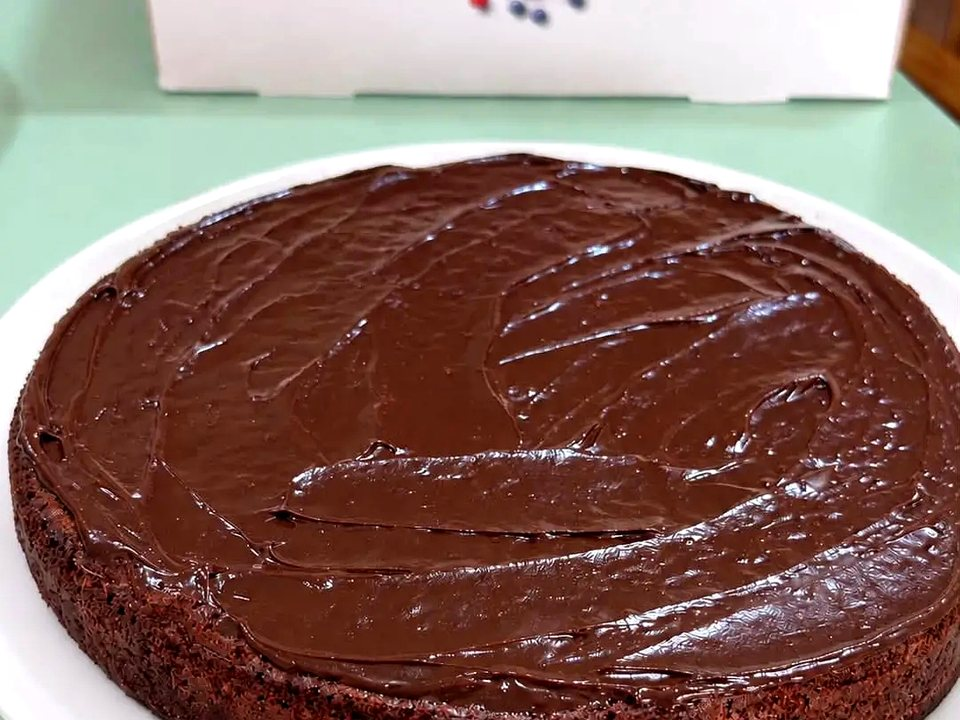
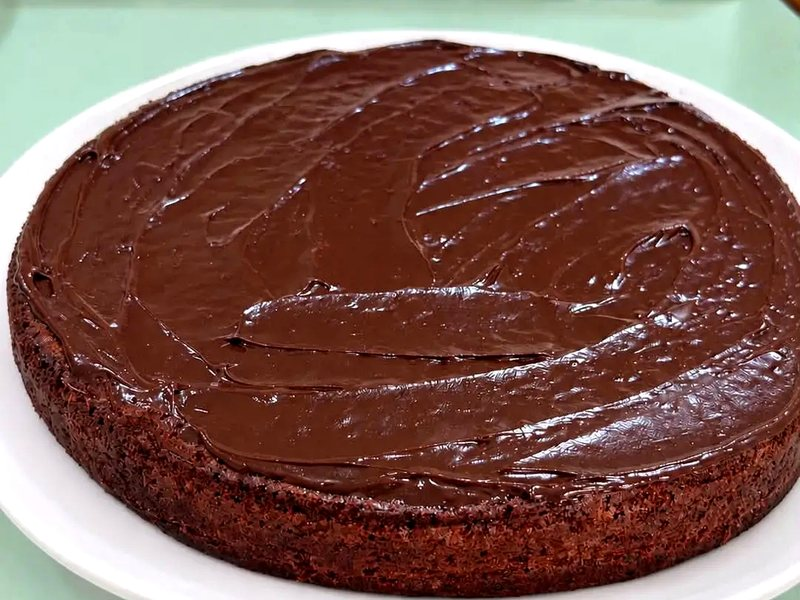
Vraies photos des tiramisus, ajout Kinder, Passion, gâteau au chocolat
Claude-Session: https://claude.ai/code/session_01JonkbffiPfwRM177G1wJXV

diff --git a/index.html b/index.html
@@ -120,175 +120,154 @@
 
       <article class="carte apparition">
         <div class="carte-image"><img src="images/cafe.jpg" alt="Tiramisu café" onerror="this.onerror=null; this.src='images/illus/classique.svg'"></div>
-        <div class="carte-texte">
-          <h3>Café</h3>
-          <p>Biscuits imbibés de café, crème mascarpone et cacao. Un dessert onctueux pour les amateurs de café.</p>
-          <div class="carte-bas">
-            <span class="prix">1 000 FCFA</span>
-            <div class="compteur" data-parfum="Café">
-              <button type="button" class="moins" aria-label="Retirer un pot Café">−</button>
-              <span class="nombre">0</span>
-              <button type="button" class="plus" aria-label="Ajouter un pot Café">+</button>
-            </div>
+        <h3>Café</h3>
+        <p>Un dessert onctueux et parfumé pour les amateurs de café.</p>
+        <div class="carte-bas">
+          <span class="prix">1 000 FCFA</span>
+          <div class="compteur" data-parfum="Café">
+            <button type="button" class="moins" aria-label="Retirer un pot Café">−</button>
+            <span class="nombre">0</span>
+            <button type="button" class="plus" aria-label="Ajouter un pot Café">+</button>
           </div>
         </div>
       </article>
 
       <article class="carte apparition">
         <div class="carte-image"><img src="images/oreo.jpg" alt="Tiramisu oreo" onerror="this.onerror=null; this.src='images/illus/oreo.svg'"></div>
-        <div class="carte-texte">
-          <h3>Oreo</h3>
-          <p>Crème mascarpone et biscuits Oreo, gourmand et croquant.</p>
-          <div class="carte-bas">
-            <span class="prix">1 000 FCFA</span>
-            <div class="compteur" data-parfum="Oreo">
-              <button type="button" class="moins" aria-label="Retirer un pot Oreo">−</button>
-              <span class="nombre">0</span>
-              <button type="button" class="plus" aria-label="Ajouter un pot Oreo">+</button>
-            </div>
-          </div>
-        </div>
-      </article>
-
-      <article class="carte apparition">
-        <div class="carte-image"><img src="images/kinder.jpg" alt="Tiramisu kinder" onerror="this.onerror=null; this.src='images/illus/classique.svg'"></div>
-        <div class="carte-texte">
-          <h3>Kinder</h3>
-          <p>Crème mascarpone et éclats de chocolat Kinder.</p>
-          <div class="carte-bas">
-            <span class="prix">1 000 FCFA</span>
-            <div class="compteur" data-parfum="Kinder">
-              <button type="button" class="moins" aria-label="Retirer un pot Kinder">−</button>
-              <span class="nombre">0</span>
-              <button type="button" class="plus" aria-label="Ajouter un pot Kinder">+</button>
-            </div>
+        <h3>Oreo</h3>
+        <p>Un dessert gourmand et croquant qui ravira les fans d'Oreo.</p>
+        <div class="carte-bas">
+          <span class="prix">1 000 FCFA</span>
+          <div class="compteur" data-parfum="Oreo">
+            <button type="button" class="moins" aria-label="Retirer un pot Oreo">−</button>
+            <span class="nombre">0</span>
+            <button type="button" class="plus" aria-label="Ajouter un pot Oreo">+</button>
           </div>
         </div>
       </article>
 
       <article class="carte apparition">
         <div class="carte-image"><img src="images/speculoos.jpg" alt="Tiramisu spéculoos pralin" onerror="this.onerror=null; this.src='images/illus/speculoos.svg'"></div>
-        <div class="carte-texte">
-          <h3>Spéculoos pralin</h3>
-          <p>Spéculoos et éclats de pralin croquants sur une crème mascarpone.</p>
-          <div class="carte-bas">
-            <span class="prix">1 000 FCFA</span>
-            <div class="compteur" data-parfum="Spéculoos pralin">
-              <button type="button" class="moins" aria-label="Retirer un pot Spéculoos pralin">−</button>
-              <span class="nombre">0</span>
-              <button type="button" class="plus" aria-label="Ajouter un pot Spéculoos pralin">+</button>
-            </div>
+        <h3>Spéculoos pralin</h3>
+        <p>Spéculoos et éclats de pralin croquants sur une crème mascarpone.</p>
+        <div class="carte-bas">
+          <span class="prix">1 000 FCFA</span>
+          <div class="compteur" data-parfum="Spéculoos pralin">
+            <button type="button" class="moins" aria-label="Retirer un pot Spéculoos pralin">−</button>
+            <span class="nombre">0</span>
+            <button type="button" class="plus" aria-label="Ajouter un pot Spéculoos pralin">+</button>
+          </div>
+        </div>
+      </article>
+
+      <article class="carte apparition">
+        <div class="carte-image"><img src="images/kinder.jpg" alt="Tiramisu kinder" onerror="this.onerror=null; this.src='images/illus/kinder.svg'"></div>
+        <h3>Kinder</h3>
+        <p>Crème mascarpone et morceaux de chocolat Kinder.</p>
+        <div class="carte-bas">
+          <span class="prix">1 000 FCFA</span>
+          <div class="compteur" data-parfum="Kinder">
+            <button type="button" class="moins" aria-label="Retirer un pot Kinder">−</button>
+            <span class="nombre">0</span>
+            <button type="button" class="plus" aria-label="Ajouter un pot Kinder">+</button>
           </div>
         </div>
       </article>
 
       <article class="carte apparition">
         <div class="carte-image"><img src="images/passion.jpg" alt="Tiramisu passion" onerror="this.onerror=null; this.src='images/illus/passion.svg'"></div>
-        <div class="carte-texte">
-          <h3>Passion</h3>
-          <p>Crème mascarpone et coulis de fruit de la passion, avec ses petites graines.</p>
-          <div class="carte-bas">
-            <span class="prix">1 000 FCFA</span>
-            <div class="compteur" data-parfum="Passion">
-              <button type="button" class="moins" aria-label="Retirer un pot Passion">−</button>
-              <span class="nombre">0</span>
-              <button type="button" class="plus" aria-label="Ajouter un pot Passion">+</button>
-            </div>
+        <h3>Passion</h3>
+        <p>Crème mascarpone et coulis de fruit de la passion, avec ses graines.</p>
+        <div class="carte-bas">
+          <span class="prix">1 000 FCFA</span>
+          <div class="compteur" data-parfum="Passion">
+            <button type="button" class="moins" aria-label="Retirer un pot Passion">−</button>
+            <span class="nombre">0</span>
+            <button type="button" class="plus" aria-label="Ajouter un pot Passion">+</button>
           </div>
         </div>
       </article>
 
       <article class="carte apparition">
         <div class="carte-image"><img src="images/mangue-passion.jpg" alt="Tiramisu mangue-passion" onerror="this.onerror=null; this.src='images/illus/passion.svg'"></div>
-        <div class="carte-texte">
-          <h3>Mangue-passion</h3>
-          <p>Crème mascarpone et coulis mangue-passion.</p>
-          <div class="carte-bas">
-            <span class="prix">1 000 FCFA</span>
-            <div class="compteur" data-parfum="Mangue-passion">
-              <button type="button" class="moins" aria-label="Retirer un pot Mangue-passion">−</button>
-              <span class="nombre">0</span>
-              <button type="button" class="plus" aria-label="Ajouter un pot Mangue-passion">+</button>
-            </div>
+        <h3>Mangue-passion</h3>
+        <p>Crème mascarpone et coulis mangue-passion.</p>
+        <div class="carte-bas">
+          <span class="prix">1 000 FCFA</span>
+          <div class="compteur" data-parfum="Mangue-passion">
+            <button type="button" class="moins" aria-label="Retirer un pot Mangue-passion">−</button>
+            <span class="nombre">0</span>
+            <button type="button" class="plus" aria-label="Ajouter un pot Mangue-passion">+</button>
           </div>
         </div>
       </article>
 
       <article class="carte apparition">
         <div class="carte-image"><img src="images/mangue.jpg" alt="Tiramisu mangue" onerror="this.onerror=null; this.src='images/illus/mangue.svg'"></div>
-        <div class="carte-texte">
-          <h3>Mangue</h3>
-          <p>Crème mascarpone et coulis de mangue.</p>
-          <div class="carte-bas">
-            <span class="prix">1 000 FCFA</span>
-            <div class="compteur" data-parfum="Mangue">
-              <button type="button" class="moins" aria-label="Retirer un pot Mangue">−</button>
-              <span class="nombre">0</span>
-              <button type="button" class="plus" aria-label="Ajouter un pot Mangue">+</button>
-            </div>
+        <h3>Mangue</h3>
+        <p>Crème mascarpone et coulis de mangue.</p>
+        <div class="carte-bas">
+          <span class="prix">1 000 FCFA</span>
+          <div class="compteur" data-parfum="Mangue">
+            <button type="button" class="moins" aria-label="Retirer un pot Mangue">−</button>
+            <span class="nombre">0</span>
+            <button type="button" class="plus" aria-label="Ajouter un pot Mangue">+</button>
           </div>
         </div>
       </article>
 
       <article class="carte apparition">
         <div class="carte-image"><img src="images/ananas.jpg" alt="Tiramisu ananas" onerror="this.onerror=null; this.src='images/illus/ananas.svg'"></div>
-        <div class="carte-texte">
-          <h3>Ananas</h3>
-          <p>Crème mascarpone et coulis d'ananas.</p>
-          <div class="carte-bas">
-            <span class="prix">1 000 FCFA</span>
-            <div class="compteur" data-parfum="Ananas">
-              <button type="button" class="moins" aria-label="Retirer un pot Ananas">−</button>
-              <span class="nombre">0</span>
-              <button type="button" class="plus" aria-label="Ajouter un pot Ananas">+</button>
-            </div>
+        <h3>Ananas</h3>
+        <p>Crème mascarpone et coulis d'ananas.</p>
+        <div class="carte-bas">
+          <span class="prix">1 000 FCFA</span>
+          <div class="compteur" data-parfum="Ananas">
+            <button type="button" class="moins" aria-label="Retirer un pot Ananas">−</button>
+            <span class="nombre">0</span>
+            <button type="button" class="plus" aria-label="Ajouter un pot Ananas">+</button>
           </div>
         </div>
       </article>
 
       <article class="carte apparition">
         <div class="carte-image"><img src="images/citron.jpg" alt="Tiramisu citron" onerror="this.onerror=null; this.src='images/illus/citron.svg'"></div>
-        <div class="carte-texte">
-          <h3>Citron</h3>
-          <p>Crème mascarpone et crème de citron, fraîche et acidulée.</p>
-          <div class="carte-bas">
-            <span class="prix">1 000 FCFA</span>
-            <div class="compteur" data-parfum="Citron">
-              <button type="button" class="moins" aria-label="Retirer un pot Citron">−</button>
-              <span class="nombre">0</span>
-              <button type="button" class="plus" aria-label="Ajouter un pot Citron">+</button>
-            </div>
+        <h3>Citron</h3>
+        <p>Crème mascarpone et crème de citron, fraîche et acidulée.</p>
+        <div class="carte-bas">
+          <span class="prix">1 000 FCFA</span>
+          <div class="compteur" data-parfum="Citron">
+            <button type="button" class="moins" aria-label="Retirer un pot Citron">−</button>
+            <span class="nombre">0</span>
+            <button type="button" class="plus" aria-label="Ajouter un pot Citron">+</button>
           </div>
         </div>
       </article>
 
-      <!-- Carte large (classe carte-large) : elle prend 3 colonnes sur ordinateur -->
-      <article class="carte apparition carte-large">
+      <article class="carte apparition">
         <div class="carte-image"><img src="images/personnalise.jpg" alt="Tiramisu personnalisé" onerror="this.onerror=null; this.src='images/illus/personnalise.svg'"></div>
-        <div class="carte-texte">
-          <h3>Personnalisé</h3>
-          <p>Vous choisissez les parfums et la décoration, on le prépare à votre goût. Décrivez-le dans le formulaire de commande.</p>
-          <div class="carte-bas">
-            <span class="prix">1 000 FCFA</span>
-            <div class="compteur" data-parfum="Personnalisé">
-              <button type="button" class="moins" aria-label="Retirer un pot Personnalisé">−</button>
-              <span class="nombre">0</span>
-              <button type="button" class="plus" aria-label="Ajouter un pot Personnalisé">+</button>
-            </div>
+        <h3>Personnalisé</h3>
+        <p>Vous choisissez les parfums et la décoration, on le prépare à votre goût.</p>
+        <div class="carte-bas">
+          <span class="prix">1 000 FCFA</span>
+          <div class="compteur" data-parfum="Personnalisé">
+            <button type="button" class="moins" aria-label="Retirer un pot Personnalisé">−</button>
+            <span class="nombre">0</span>
+            <button type="button" class="plus" aria-label="Ajouter un pot Personnalisé">+</button>
           </div>
         </div>
       </article>
 
     </div>
 
-    <!-- AUSSI EN VITRINE : le gâteau au chocolat (prix à confirmer, donc bouton "Demander le prix") -->
-    <div class="evenement-vedette vitrine apparition">
+    <!-- ET AUSSI : les autres douceurs (même mise en page que la photo des événements) -->
+    <div class="evenement-vedette aussi apparition">
       <img src="images/gateau-chocolat.jpg" alt="Gâteau au chocolat noir moelleux Ô'tiramisu">
       <div>
-        <p class="petit-titre">Aussi en vitrine</p>
+        <p class="petit-titre">Et aussi</p>
         <h3>Gâteau au chocolat noir moelleux</h3>
-        <p>Un gâteau fondant au chocolat noir, nappé de chocolat.</p>
-        <a href="#" class="bouton lien-whatsapp" data-message="Bonjour Ô'tiramisu, je voudrais commander le gâteau au chocolat noir moelleux. Quel est le prix ?">Demander le prix</a>
+        <p>Fait maison, nappé de chocolat noir. Disponible sur commande.</p>
+        <a href="#" class="bouton lien-whatsapp" data-message="Bonjour Ô'tiramisu, je voudrais commander un gâteau au chocolat noir moelleux.">Le commander</a>
       </div>
     </div>
   </section>

diff --git a/style.css b/style.css
@@ -264,15 +264,15 @@ a { color: inherit; }
 /* ---------- 9. Cartes de la carte (Levain) ---------- */
 .grille {
   display: grid;
-  grid-template-columns: repeat(4, 1fr);   /* 4 parfums = 4 colonnes */
-  gap: 26px;
+  grid-template-columns: repeat(5, 1fr);   /* 10 parfums = 2 lignes de 5 */
+  gap: 18px;
 }
 .carte {
   display: flex;              /* en colonne : le bas de carte (prix) reste aligné */
   flex-direction: column;
   background: var(--carte);
   border-radius: var(--rayon);
-  padding: 18px 18px 22px;
+  padding: 14px 14px 18px;
   transition: transform 0.3s;
 }
 .carte:hover { transform: translateY(-6px); }
@@ -290,7 +290,7 @@ a { color: inherit; }
 .carte-image img[src$=".jpg"] { object-fit: cover; padding: 0; }
 .carte:hover .carte-image img[src$=".jpg"] { transform: scale(1.05); }
 
-.carte h3 { font-size: 1.55rem; margin-bottom: 6px; }
+.carte h3 { font-size: 1.35rem; margin-bottom: 6px; }
 .carte p { font-size: 0.93rem; color: var(--texte-doux); margin-bottom: 16px; min-height: 3em; }
 .carte-texte { display: flex; flex-direction: column; flex: 1; }
 /* Carte large "Personnalisé" : image à gauche, texte à droite, sur 3 colonnes */
@@ -301,7 +301,7 @@ a { color: inherit; }
 .carte-large p { min-height: 0; }
 .vitrine { margin: 26px 0 0; }
 .carte-bas { display: flex; justify-content: space-between; align-items: center; gap: 10px; margin-top: auto; }
-.prix { font-weight: 600; font-size: 0.9rem; }
+.prix { font-weight: 600; font-size: 0.85rem; white-space: nowrap; }
 
 
 /* ---------- Compteurs − 0 + (panier) ---------- */
@@ -314,8 +314,8 @@ a { color: inherit; }
   overflow: hidden;
 }
 .compteur button {
-  width: 36px;
-  height: 34px;
+  width: 32px;
+  height: 32px;
   border: none;
   background: none;
   font: 600 1.2rem var(--texte);
@@ -323,7 +323,7 @@ a { color: inherit; }
   cursor: pointer;
 }
 .compteur button:hover { background: var(--rose); }
-.compteur .nombre { min-width: 26px; text-align: center; font-weight: 600; }
+.compteur .nombre { min-width: 22px; text-align: center; font-weight: 600; }
 .compteur.actif { background: var(--or-clair); }             /* doré quand il y a au moins 1 pot */
 .carte.choisie { box-shadow: inset 0 0 0 2px var(--encre); } /* la carte choisie est entourée */
 
@@ -474,9 +474,10 @@ body.sur-formulaire .barre-panier { display: none; }   /* inutile quand on voit 
   margin-bottom: 22px;
 }
 .evenement-vedette img { width: 100%; aspect-ratio: 4 / 3; object-fit: cover; border-radius: 14px; }
+.aussi { margin-top: 30px; grid-template-columns: 1fr 1.1fr; }
 .evenement-vedette h3 { font-size: 1.9rem; margin-bottom: 12px; }
 .evenement-vedette p { color: var(--texte-doux); margin-bottom: 22px; max-width: 420px; }
-@media (max-width: 768px) { .evenement-vedette { grid-template-columns: 1fr; gap: 20px; } }
+@media (max-width: 768px) { .evenement-vedette, .aussi { grid-template-columns: 1fr; gap: 20px; } }
 
 /* ---------- 15. Notre histoire (Cannella) ---------- */
 .histoire { display: grid; grid-template-columns: 0.9fr 1.1fr; align-items: center; }
@@ -614,7 +615,8 @@ body.sur-formulaire .barre-panier { display: none; }   /* inutile quand on voit 
 @media (max-width: 980px) {
   .menu { gap: 16px; }
   .menu a { font-size: 0.74rem; }
-  .grille, .occasions { grid-template-columns: repeat(2, 1fr); }
+  .grille { grid-template-columns: repeat(3, 1fr); }
+  .occasions { grid-template-columns: repeat(2, 1fr); }
   .carte-large { grid-column: 1 / -1; }
   .commande, .contact { grid-template-columns: 1fr; }
   .commande-pot { display: none; }
@@ -658,7 +660,12 @@ body.sur-formulaire .barre-panier { display: none; }   /* inutile quand on voit 
 
   .section { padding: 64px 5%; }
   .section-tete { flex-direction: column; align-items: flex-start; }
-  .grille, .occasions { grid-template-columns: 1fr; }
+  .grille { grid-template-columns: repeat(2, 1fr); gap: 12px; }
+  .carte { padding: 10px 10px 14px; }
+  .carte h3 { font-size: 1.1rem; }
+  .carte p { font-size: 0.8rem; min-height: 0; }
+  .carte-bas { flex-direction: column; align-items: flex-start; gap: 8px; }
+  .occasions { grid-template-columns: 1fr; }
   .carte-large { flex-direction: column; gap: 0; }
   .carte-large .carte-image { margin-bottom: 18px; }
   .occasion { min-height: 96px; }
